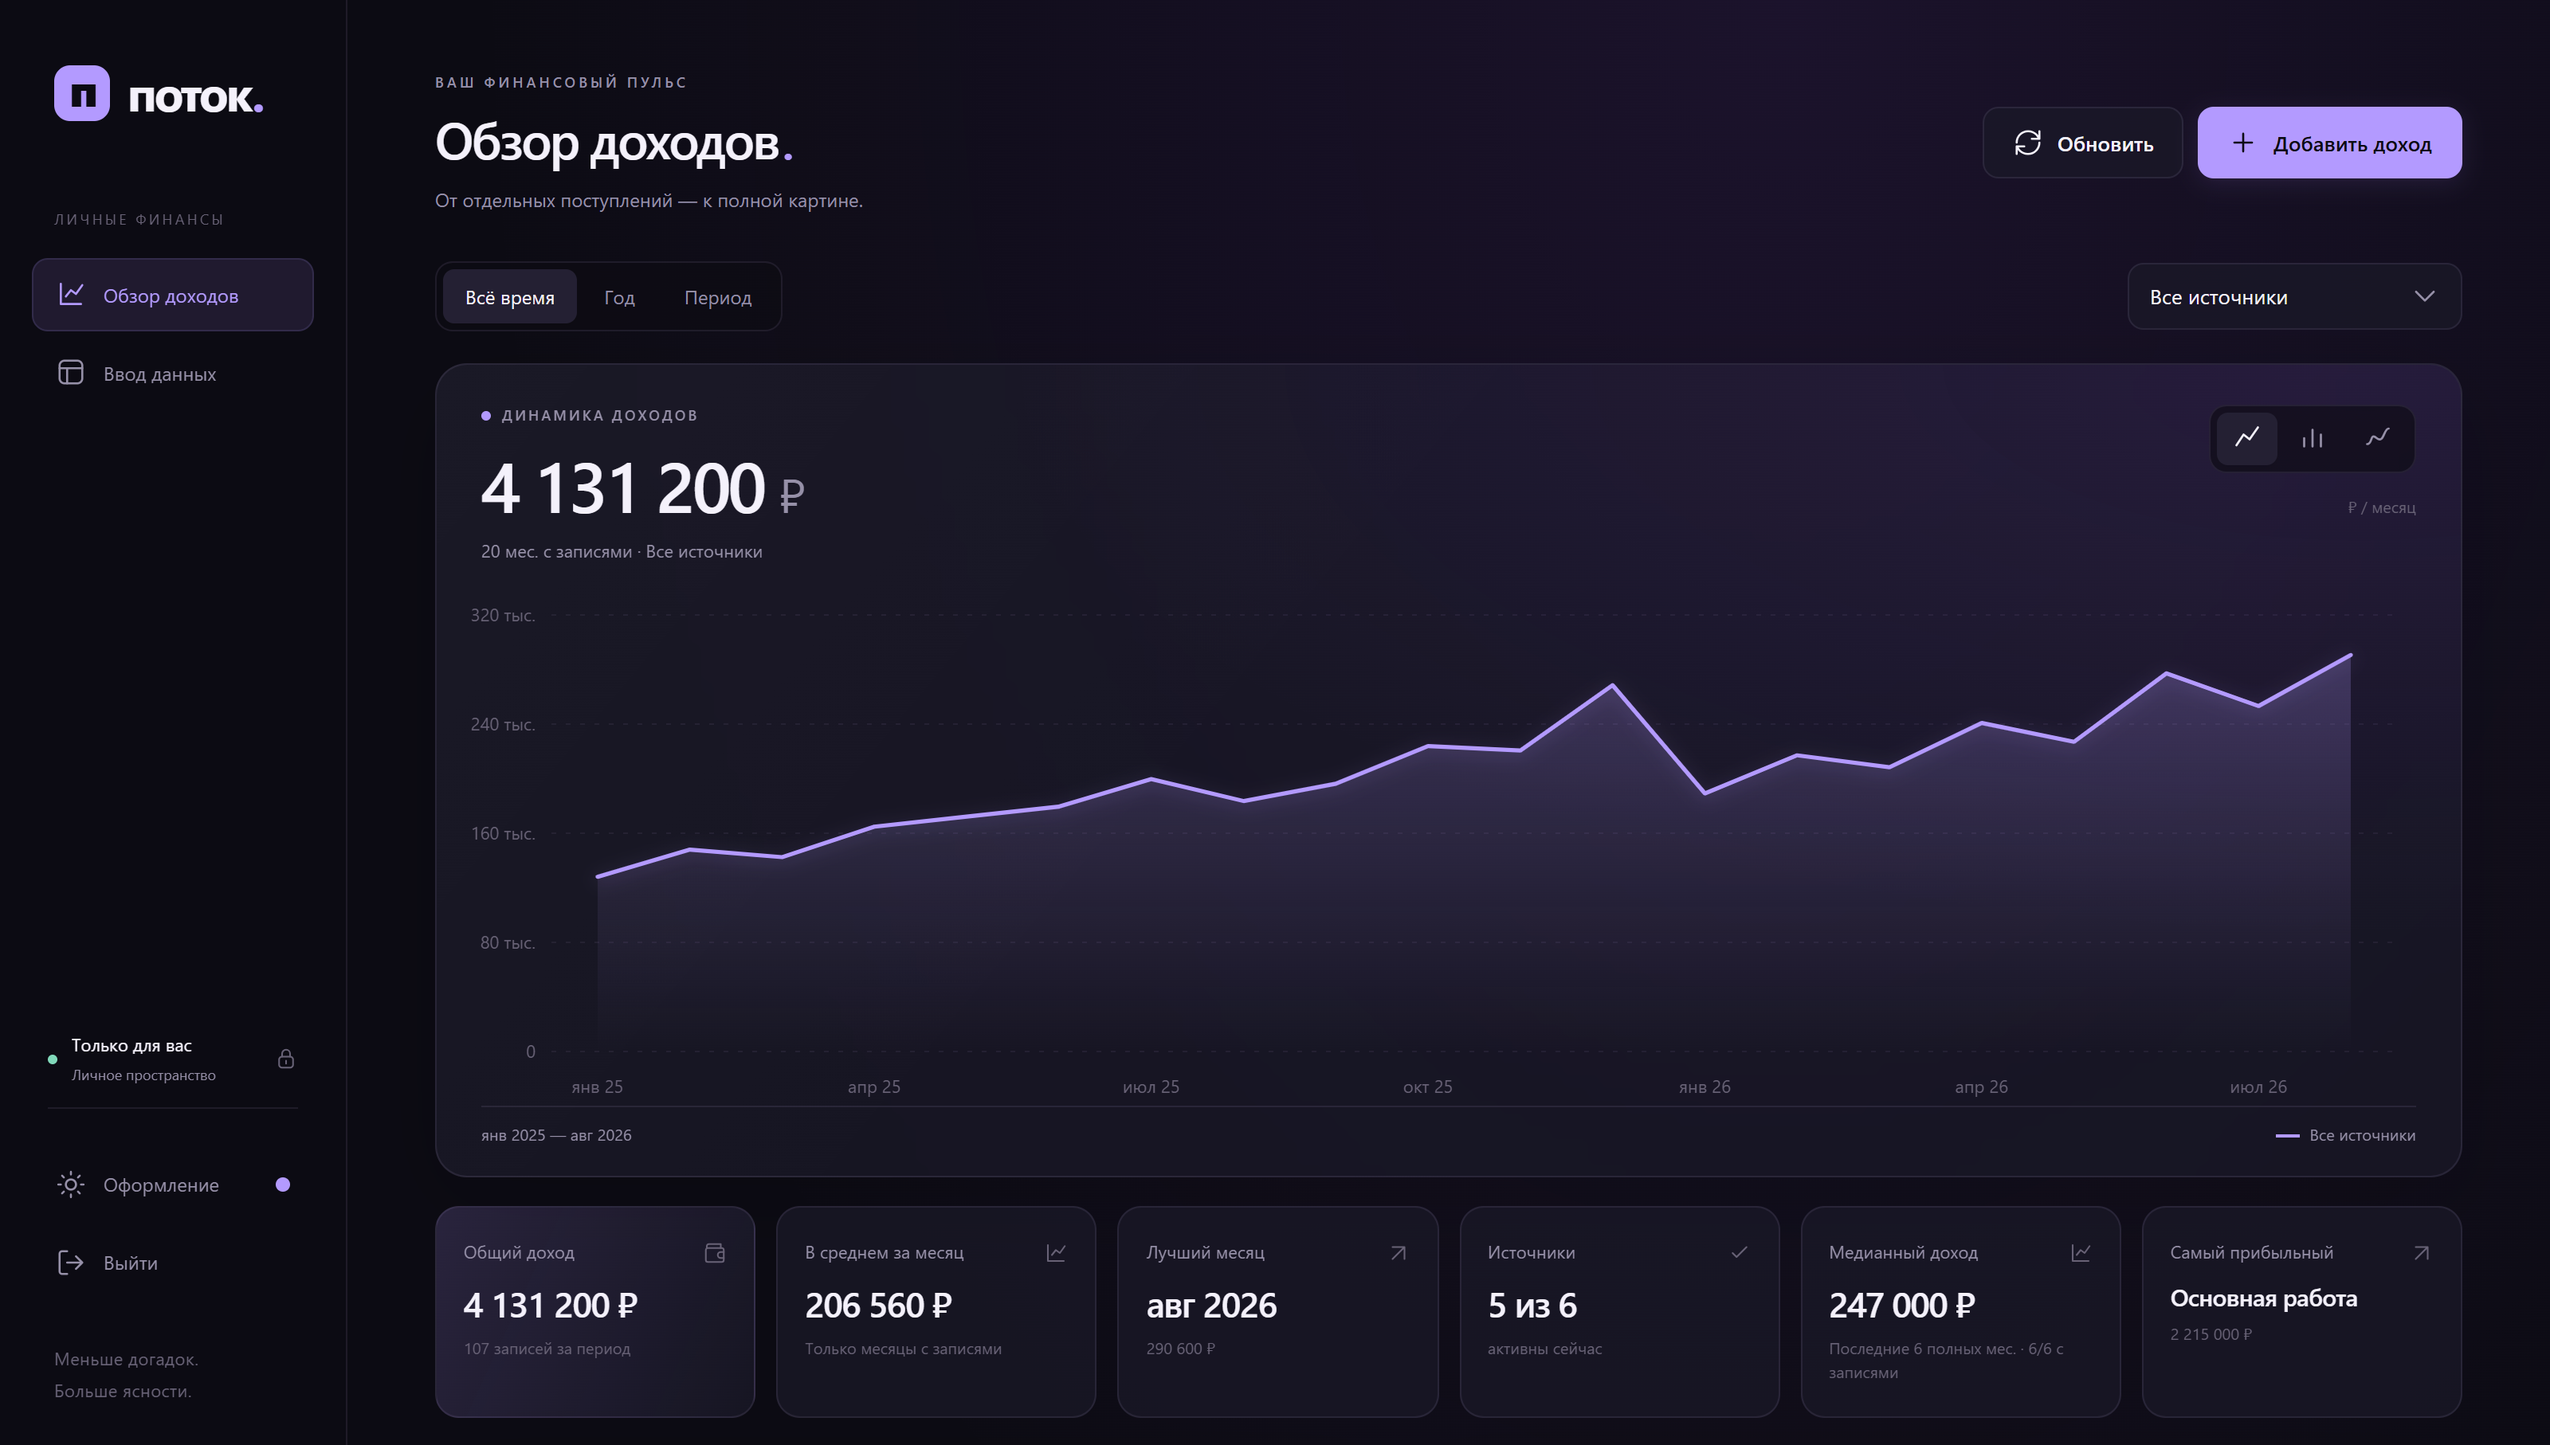
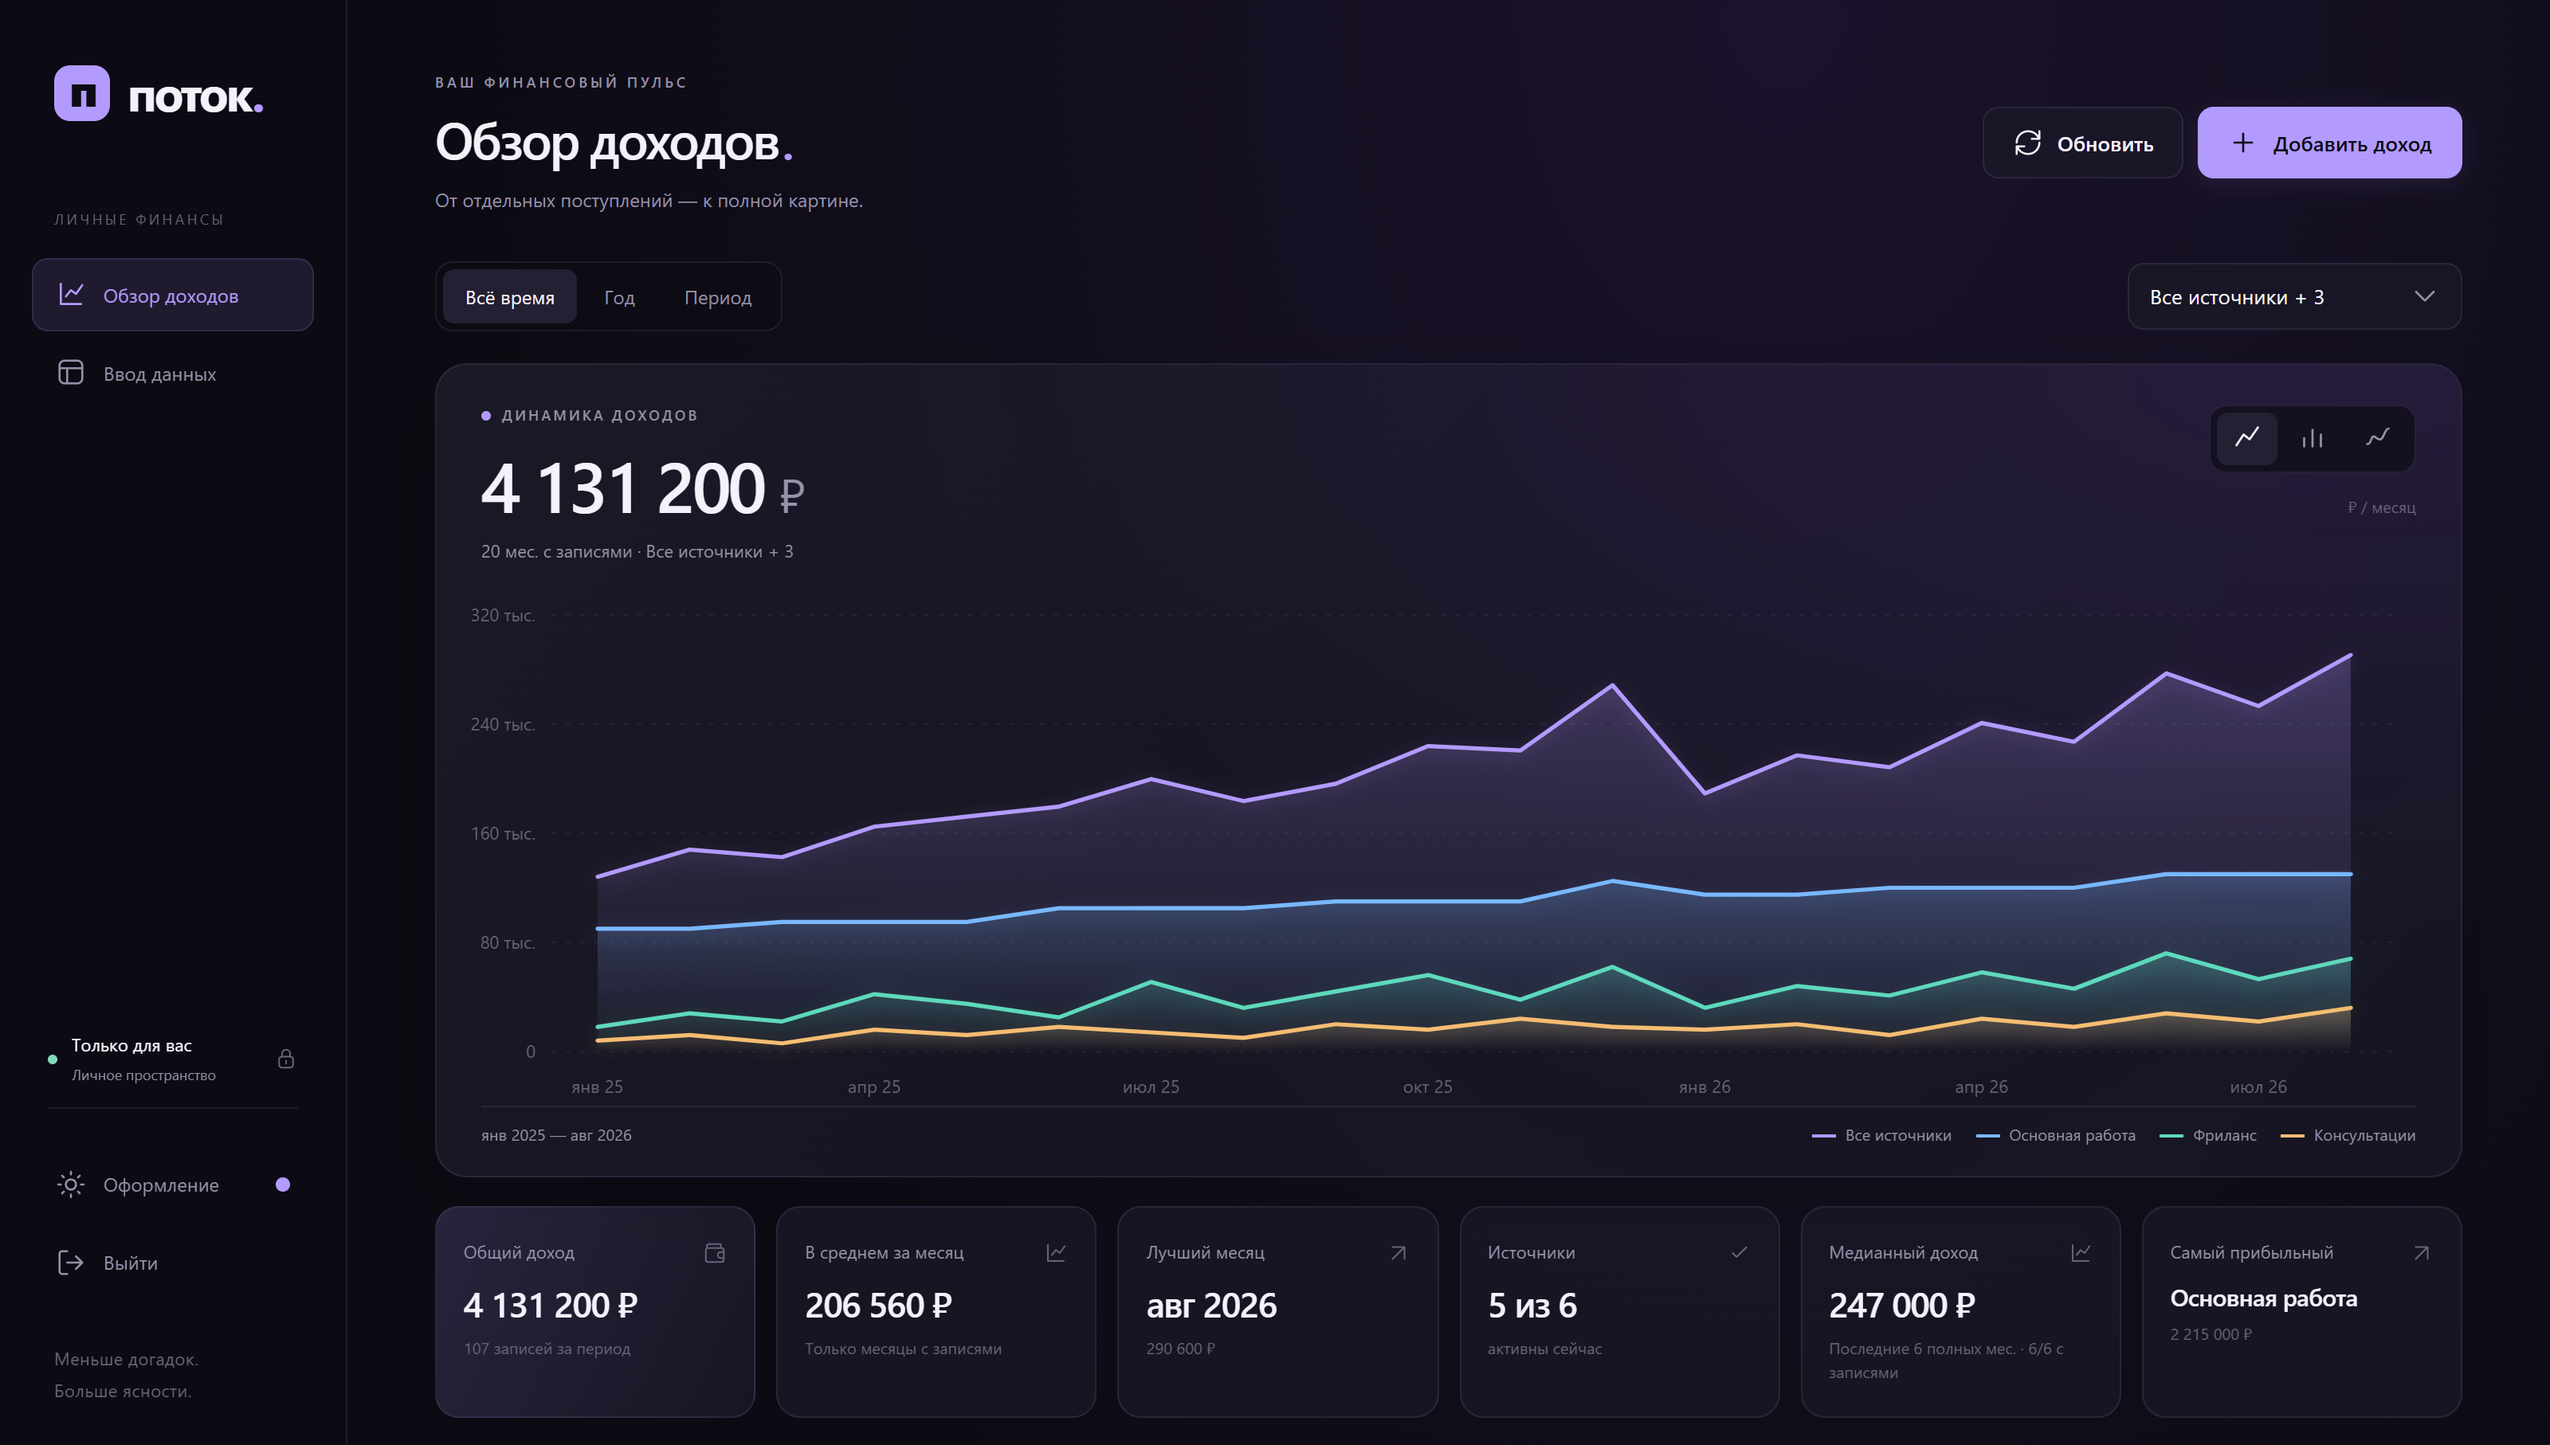
Show multiple income sources in the README cover

Changed region(s): [[0.2188, 0.5865, 0.9375, 0.7409], [0.9062, 0.7718, 0.9375, 0.8026]]

diff --git a/docs/screenshots/README.md b/docs/screenshots/README.md
@@ -49,7 +49,7 @@ SCREENSHOT_BROWSER=chromium node scripts/capture-readme.mjs
 
 | Кадр | Содержание |
 | :--- | :--- |
-| `overview-violet.png` | Аметист: обзор за всё время и ключевые показатели. |
+| `overview-violet.png` | Аметист: четыре линии — все доходы, основная работа, фриланс и консультации; ключевые показатели. |
 | `overview-midnight.png` | Полночь: столбцы за выбранные 12 месяцев. |
 | `analytics-forest.png` | Лес: нижняя часть страницы, доли и общие суммы по источникам. |
 | `analytics-light.png` | Жемчуг: нижняя часть страницы, средние доходы по источникам. |

diff --git a/README.md b/README.md
@@ -16,7 +16,7 @@
   <a href="#на-телефоне">На телефоне</a>
 </p>
 
-![Обзор доходов: график за 20 месяцев и шесть ключевых показателей](docs/screenshots/overview-violet.png)
+![Обзор доходов: общая сумма, основная работа, фриланс и консультации на одном графике за 20 месяцев](docs/screenshots/overview-violet.png)
 
 <p align="center"><sub>Все скриншоты сняты в приложении с вымышленными данными: 6 источников, 20 месяцев, 107 записей.</sub></p>
 
